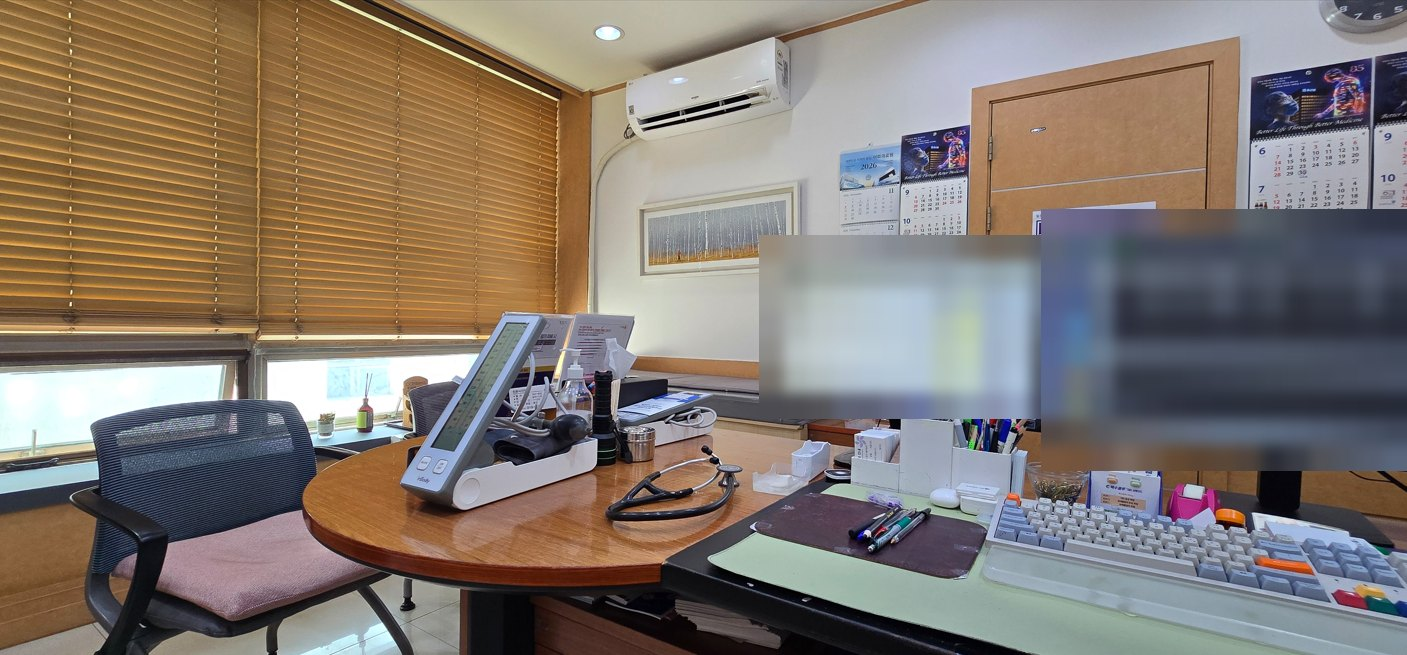
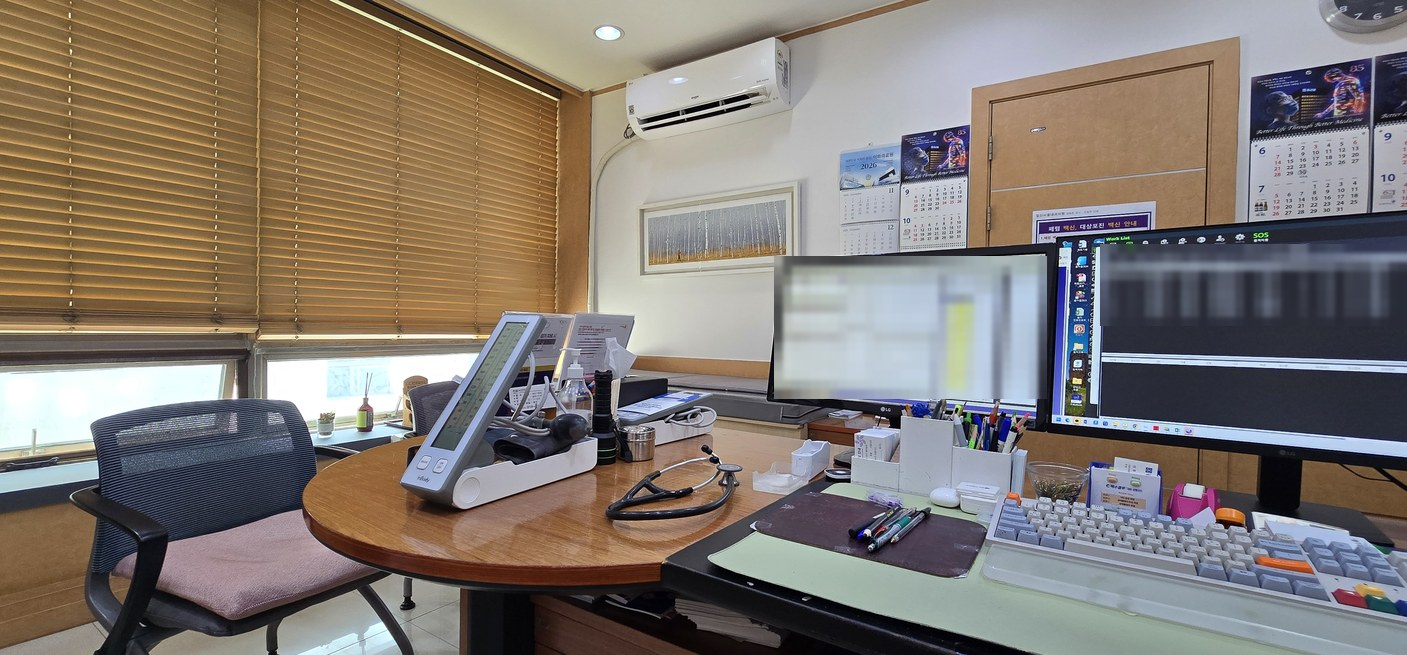
fix: 본원 둘러보기 진료실·검사실 모니터 모자이크를 화면 내용만 가리게 축소 (원장님 요청)
원본에서 다시 만들어 환자 정보(목록·차트·초음파 상단 환자 줄)만 가림.

diff --git a/진행상황.md b/진행상황.md
@@ -1,5 +1,10 @@
 # 진행상황
 
+## 2026-11-10 — 원장님 「연결 후 글씨가 1.5배 커졌다」 민원
+- 점검: vercel.app 주소와 iseoulmed.com은 HTML·CSS·화면 캡처 모두 같음. 원인은 원장님 브라우저가 옛 홈페이지 때 키워 둔 확대 배율(약 150%)을 도메인별로 기억한 것. **원장님 Ctrl+0으로 해결 확인(사용자 전달).**
+- 덤으로 발견: 노트북(1366×768) 100%에서도 원장님 소개 사진이 첫 화면에서 잘림(위 제목 띠 343px). 높이 880px 이하 PC 화면에서만 제목 띠 여백 축소·사진 크기를 화면 높이에 맞추는 CSS 추가(`sub-header.css`, `subpage.css` 맨 끝). 큰 모니터 100%는 변화 없음(343px 그대로 측정). 로컬에서 6개 화면 × 19개 페이지 검사: 가로 넘침·오류 0, 사진 전부 첫 화면에 보임.
+- **다음 할 일: 이 CSS 변경은 아직 커밋·배포 안 함 — 사용자에게 올릴지 물어봄.**
+
 ## 2026-10-16 — 원장님 미팅(10-15 12:40 녹음) 반영
 **자료**: 녹음 `C:\녹음자산\01_텍스트\2026-10\2026-10-15_1240_음성메모.txt`, `자료_뉴홈피\` (원장님 zip · 환자 정보 사진 포함이라 git 제외), 원장님 사진 `김금미.jpg`
 **보고서(원장님 말씀 → 구현, 수정 전·후 화면)**: `C:\Users\qkdgh\코드는여기서\문서\일산서울내과_수정보고서_2026-10-16\` (수정보고서_1~4.png, report.html)
